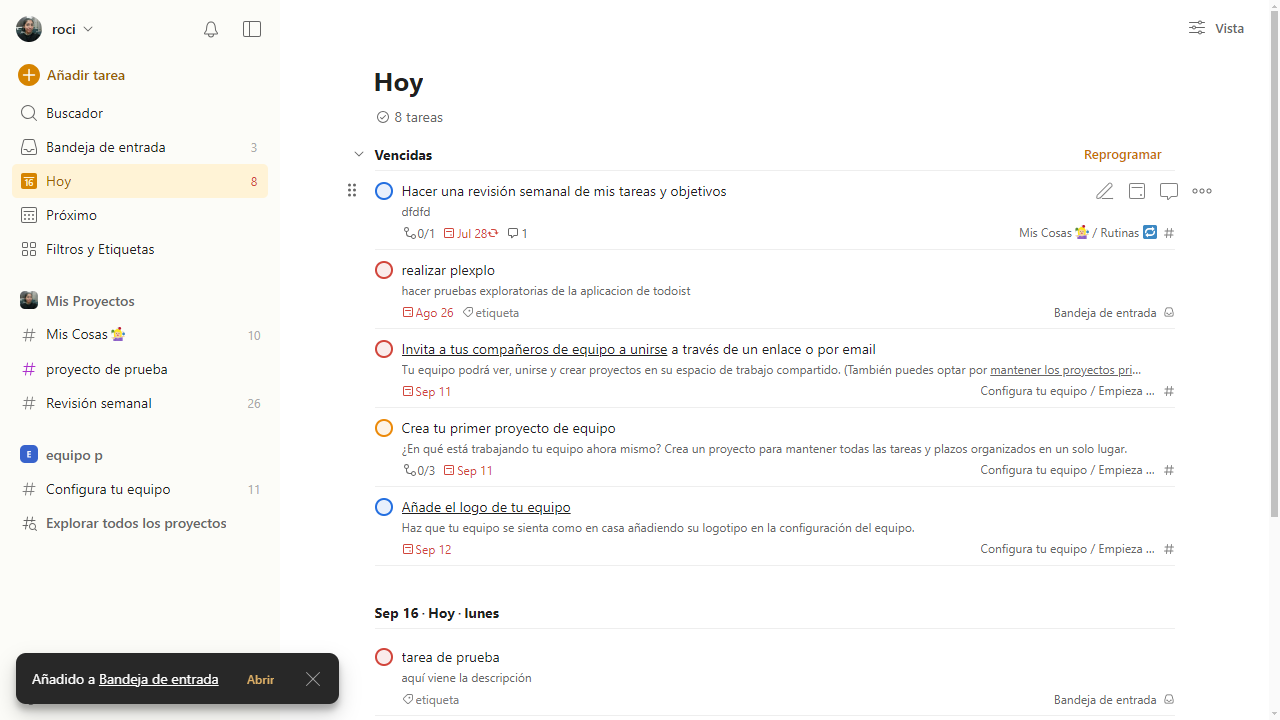
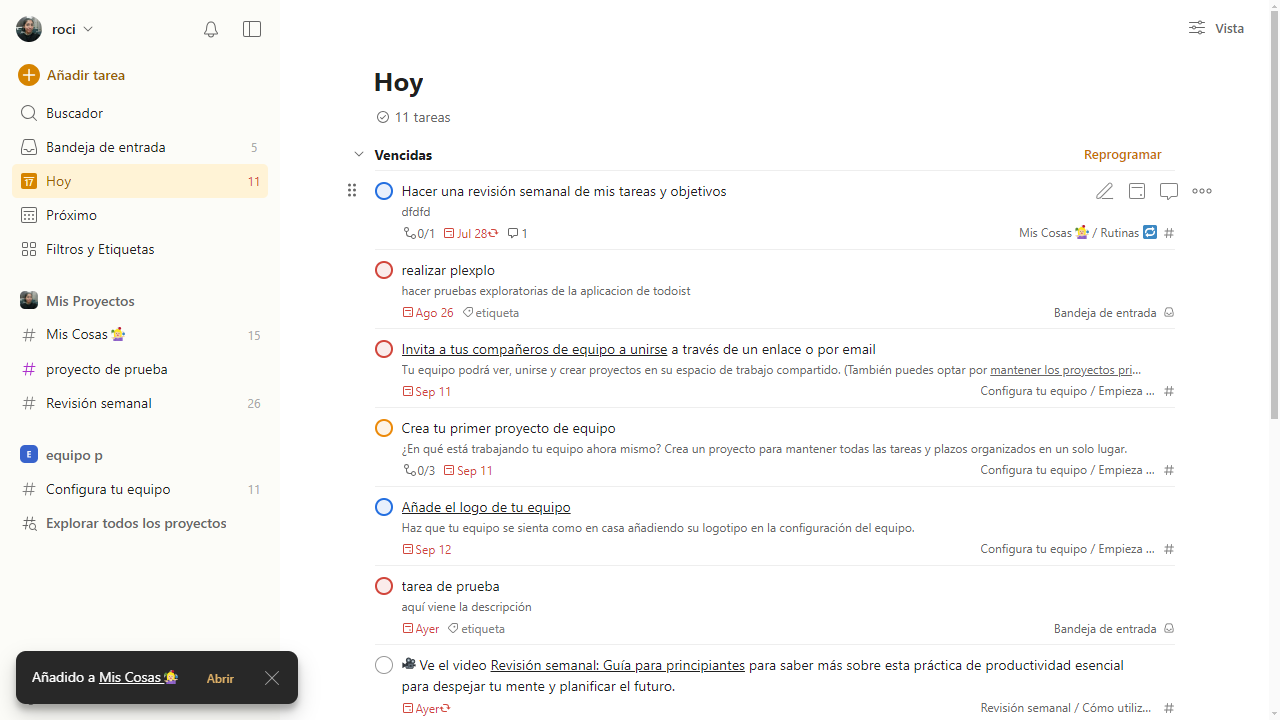
Casos de prueba Tareas T-001,T-002, T-003

diff --git a/main/ui/tareas/page.py b/main/ui/tareas/page.py
@@ -23,6 +23,25 @@ class TaskPage:
         logger.info("Prioridad seleccionada")
         self.elements.get_add_menu_prioridad().click()
         self.elements.get_selec_prioridad().click()
+    
+    def agregar_fecha(self):
+        logger.info("fecha vencimiento seleccionada")
+        self.elements.get_abrir_fvenc_button().click()
+        self.elements.get_selec_fvenc_button().click()
+
+    def agregar_a(self):
+        logger.info("añadir a...")
+        self.elements.get_selec_a_button().click()
+        self.elements.get_menu_proyectos()
+        self.elements.get_select_proyecto().click()
+    
+    def verificar_msj(self):
+        self.page.wait_for_selector('[data-testid="toasts-container"]', state='visible', timeout=3000)
+        # Tomar una captura de pantalla del mensaje
+        self.page.screenshot(path='alerta_aparece.png')
+        self.page.goto("https://app.todoist.com/app/inbox")
+        logger.info("bandeja de entrada")
+
 
     def agregar_tarea_bandeja(self, nombre:str, desc:str):
         self.elements.get_add_tarea_button().click()
@@ -37,12 +56,34 @@ class TaskPage:
         logger.info("clic boton")
         self.elements.get_submit_button().click()
         logger.info("se añadio tarea, bandeja de entrada")
+        self.verificar_msj()
+        
+    def agregar_tarea_con_fvenc(self, nombre:str, desc:str):
+        self.elements.get_add_tarea_button().click()
+        logger.info("abrir form agregar tarea, introducir datos")
+        self.elements.get_nombre_tarea().fill(nombre)
+        self.elements.get_desc_tarea().fill(desc)
+        self.agregar_etiquetas()
+        logger.info("prioridad")
+        self.agregar_prioridad()
+        self.agregar_fecha()
 
-        self.page.wait_for_selector('[data-testid="toasts-container"]', state='visible', timeout=3000)
-        # Tomar una captura de pantalla del mensaje
-        self.page.screenshot(path='alerta_aparece.png')
-        # Registrar en los logs que el mensaje de alerta ha aparecido
-        logger.info("Mensaje de alerta de tarea creada aparece correctamente")
-        self.page.goto("https://app.todoist.com/app/inbox")
-        logger.info("bandeja de entrada")
+        self.elements.get_ver_proyecto()
+        logger.info("clic boton")
+        self.elements.get_submit_button().click()
+        logger.info("se añadio tarea, bandeja de entrada")
+        self.verificar_msj()
+        
+    def agregar_tarea_en_proyecto(self, nombre:str, desc:str):
+        self.elements.get_add_tarea_button().click()
+        logger.info("abrir form agregar tarea, introducir datos")
+        self.elements.get_nombre_tarea().fill(nombre)
+        self.elements.get_desc_tarea().fill(desc)
+        self.agregar_etiquetas()
+        logger.info("prioridad")
+        self.agregar_prioridad()
+        self.agregar_fecha()
+        self.agregar_a()
+        self.elements.get_submit_button().click()
+        self.verificar_msj()
         

diff --git a/tests/test_tareas.py b/tests/test_tareas.py
@@ -9,6 +9,10 @@ load_dotenv()
 # Recuperar las variables de entorno
 TODOIST_EMAIL = os.getenv("TODOIST_EMAIL")
 TODOIST_PASSWORD = os.getenv("TODOIST_PASSWORD")
+#variables globales
+nombre= "tarea de prueba"
+desc = "aquí viene la descripción"
+
 
 @pytest.fixture
 def setup_browser():
@@ -24,6 +28,18 @@ def test_crear_tarea_en_bandeja_entrada(setup_browser):
     driver = setup_browser
     # Usar el Page Object para interactuar con la página de tareas
     proyect_page = TaskPage(driver.page)
-    nombre= "tarea de prueba"
-    desc = "aquí viene la descripción"
     proyect_page.agregar_tarea_bandeja(nombre, desc)
+
+#T-002:Crear una tarea con fecha de vencimiento
+def test_crear_tarea_con_fecha_venci(setup_browser):
+    driver = setup_browser
+    # Usar el Page Object para interactuar con la página de tareas
+    proyect_page = TaskPage(driver.page)
+    proyect_page.agregar_tarea_con_fvenc(nombre, desc)
+
+# T-003: Crear una tarea en un proyecto
+def test_crear_tarea_en_proyecto(setup_browser):
+    driver = setup_browser
+    # Usar el Page Object para interactuar con la página de tareas
+    proyect_page = TaskPage(driver.page)
+    proyect_page.agregar_tarea_en_proyecto(nombre, desc)

diff --git a/main/ui/tareas/elements.py b/main/ui/tareas/elements.py
@@ -21,7 +21,6 @@ class TareasPageElements:
         
     def get_clic_fuera(self):
         return self.page.locator(self.selectors.POPPER_OVERLAY)
-        
     
     def get_add_menu_prioridad(self):
         return self.page.locator(self.selectors.PRIORIDAD_BUTTON)
@@ -37,3 +36,15 @@ class TareasPageElements:
 
     def get_badeja_button(self):
         return self.page.locator(self.selectors.BANDEJA_ENTRADA_BUTTON)
+    
+    def get_abrir_fvenc_button(self):
+        return self.page.locator(self.selectors.DATE_BUTTON)
+    def get_selec_fvenc_button(self):
+        return self.page.locator(self.selectors.DATE)
+    
+    def get_selec_a_button(self):
+        return self.page.locator(self.selectors.SELECT_A_BUTTON)
+    def get_menu_proyectos(self):
+        return self.page.locator(self.selectors.MENU_PROYECTOS)
+    def get_select_proyecto(self):
+        return self.page.locator(self.selectors.PROYECTO)

diff --git a/main/ui/tareas/selectors.py b/main/ui/tareas/selectors.py
@@ -9,9 +9,15 @@ class TareasPageSelectors:
 
     PRIORIDAD_BUTTON = '[aria-label="Establecer prioridad"]'#abre menu prioridad
     PRIORIDAD = '[aria-label="Prioridad 1"]'#selecciona prioridad 1
+
+    DATE_BUTTON= 'div[aria-label="Establecer fecha de vencimiento"]'
+    DATE='button[data-action-hint="scheduler-suggestion-tomorrow"]'
+
     PROYECTO ='button[aria-label="Selecciona un proyecto"]>span>div>span'
     SUBMIT_BUTTON = '[data-testid="task-editor-submit-button"]'
     BANDEJA_ENTRADA_BUTTON = 'a[href="/app/inbox"]'
     MENSAJE_ALERT = '[data-testid="toasts-container"]'
 
-   
+    SELECT_A_BUTTON= 'button[aria-label="Selecciona un proyecto"]'
+    MENU_PROYECTOS = 'ul[aria-label="Selecciona un proyecto"]'
+    PROYECTO = 'ul[aria-label="Selecciona un proyecto"]>li:nth-of-type(3)' #Proyecto mis cosas
